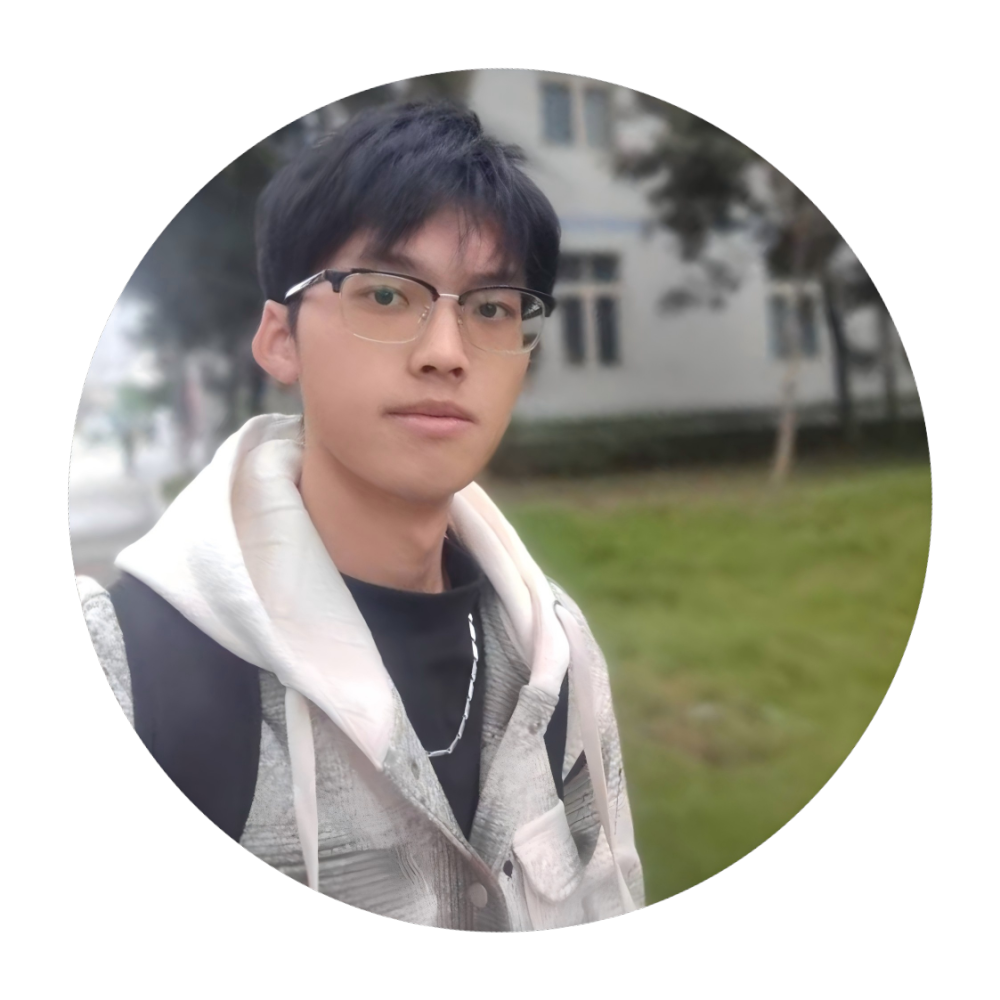
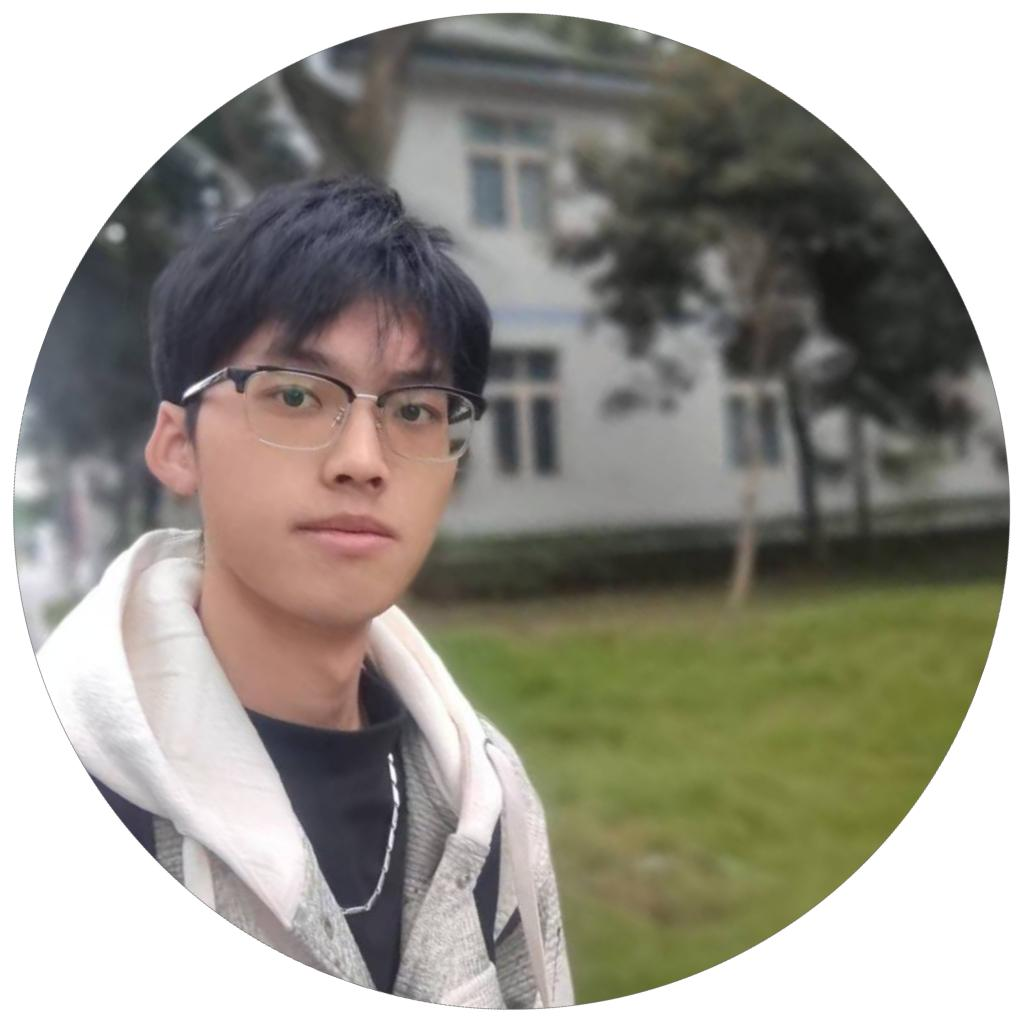
update team

diff --git a/_pages/team_en.md b/_pages/team_en.md
@@ -31,7 +31,7 @@ The photo file needs to be uploaded to the /images/ folder in your website repos
   <div class="grid__item team-member-card">
     <img src="/images/Yudong_Yan.png" alt="Yudong Yan" class="team-member-photo">
     <h4 class="team-member-name">Yudong Yan</h4>
-    <p class="team-member-description" style="margin-bottom:auto"><a href="https://github.com/lyhbio/AMVL">Project Homepage</a> | <a href="https://doi.org/10.1016/j.jpha.2025.101275" >Publication</a></p>
+    <p class="team-member-description" style="margin-bottom:auto"><a href="https://vccv.cc">Project Homepage</a> | <a href="https://doi.org/10.1016/j.jpha.2025.101275" >Publication</a></p>
     <p class="team-member-description">Class of 2024 | AI for Drug Discovery</p>
 
   </div>
@@ -75,8 +75,8 @@ The photo file needs to be uploaded to the /images/ folder in your website repos
 
 <div class="grid__wrapper">
   <div class="grid__item team-member-card">
-    <img src="/images/Jilong_Mu.png" alt="Jilong Mu" class="team-member-photo">
-    <h4 class="team-member-name">Jilong Mu</h4>
+    <img src="/images/Jilong_Mu.png" alt="Julong Mou" class="team-member-photo">
+    <h4 class="team-member-name">Julong Mou</h4>
     <p class="team-member-description">Drug-Target Affinity Prediction</p>
   </div>
   <div class="grid__item team-member-card">

diff --git a/_pages/team.md b/_pages/team.md
@@ -33,7 +33,7 @@ author_profile: True
   <div class="grid__item team-member-card">
     <img src="/images/Yudong_Yan.png" alt="Yudong Yan" class="team-member-photo">
     <h4 class="team-member-name">颜钰东 (Yudong Yan)</h4>
-    <p class="team-member-description" style="margin-bottom:auto"><a href="https://github.com/lyhbio/AMVL">项目主页</a> | <a href="https://doi.org/10.1016/j.jpha.2025.101275">发表论文</a></p>
+    <p class="team-member-description" style="margin-bottom:auto"><a href="https://vccv.cc">项目主页</a> | <a href="https://doi.org/10.1016/j.jpha.2025.101275">发表论文</a></p>
     <p class="team-member-description">2024级硕士 | 人工智能与药物发现</p>
 
   </div>
@@ -78,8 +78,8 @@ author_profile: True
 
 <div class="grid__wrapper">
   <div class="grid__item team-member-card">
-    <img src="/images/Jilong_Mu.png" alt="Jilong Mu" class="team-member-photo">
-    <h4 class="team-member-name">牟桔隆 (Jilong Mu)</h4>
+    <img src="/images/Jilong_Mu.png" alt="Julong Mou" class="team-member-photo">
+    <h4 class="team-member-name">牟桔隆 (Julong Mou)</h4>
     <p class="team-member-description">药物-靶点亲和力预测</p>
   </div>
   <div class="grid__item team-member-card">
